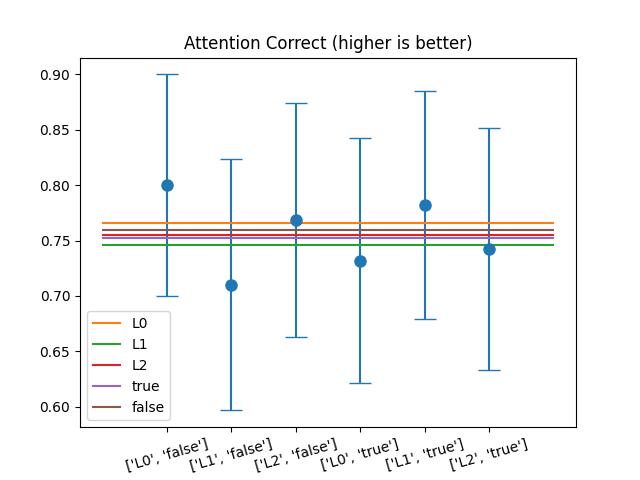
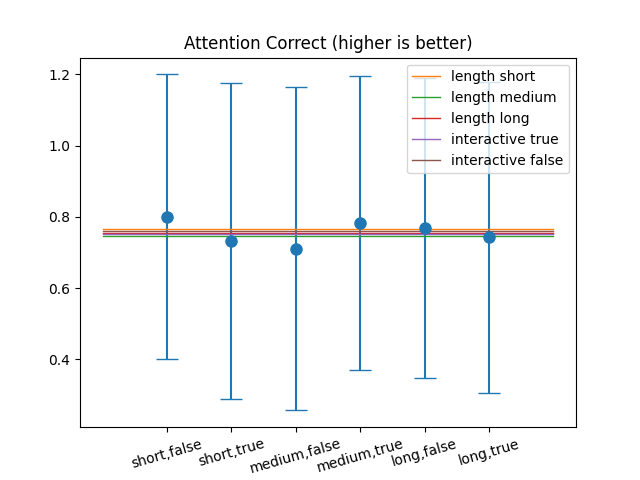
adds latest data

diff --git a/build_graphs.py b/build_graphs.py
@@ -10,7 +10,7 @@ def most_frequent(List):
 
 names = [x.split("/")[-1] for x in glob.glob("./combined_submissions/*")]
 print(names)
-names.sort(key=lambda x: (x.split("_")[3], x.split("_")[2]))
+names.sort(key=lambda x: (x.split("_")[2], x.split("_")[3]))
 
 result_dict = {}
 for name in names:
@@ -30,13 +30,20 @@ def calculate(fname, calc_func):
 	es = []
 	
 	res_typed = {}
-	for t in ["L0", "L1", "L2", "true", "false"]: # "L1", 
+	for t in ["length short", "length medium", "length long", "interactive true", "interactive false"]: # "L1", 
 		res_typed[t] = []
 
 	for name in names:
+		spl = name.split("_")
+		length = int(spl[2][1])
+		interactive = spl[3] == 'true'
+
 		l = result_dict[name]
 		local = []
 		for j in l:
+			if j['params']['textLength'] != length or j['params']['interactiveness'] != interactive:
+				raise Exception("length or interactiveness not matching")
+
 			v = calc_func(j)
 			if v is not None:
 				local.append(v)
@@ -61,10 +68,12 @@ def calculate(fname, calc_func):
 		"""
 
 		y = np.mean(local)
-		e = np.std(local) / 4
+		e = np.std(local)
 		# y = most_frequent(local)
-		data = name.split("_")[2:4]
-		xs.append(str(data))
+		data = name.replace("L0", "length short").replace("L1", "length medium").replace("L2", "length long")
+		data = data.replace("true", "interactive true").replace("false", "interactive false")
+		data = data.split("_")[2:4]
+		xs.append(str(data).replace("[", "").replace("]", "").replace("\'", "").replace("interactive", "").replace("length", "").replace(" ", ""))
 		ys.append(y)
 		es.append(e)
 
@@ -83,7 +92,7 @@ def calculate(fname, calc_func):
 		values = res_typed[key]
 		# print('values', values)
 		avg = np.mean(values)
-		plt.plot([-1, 6], [avg, avg], label=key)
+		plt.plot([-1, 6], [avg, avg], label=key, linewidth=1)
 
 	plt.legend()
 	plt.title(fname)
